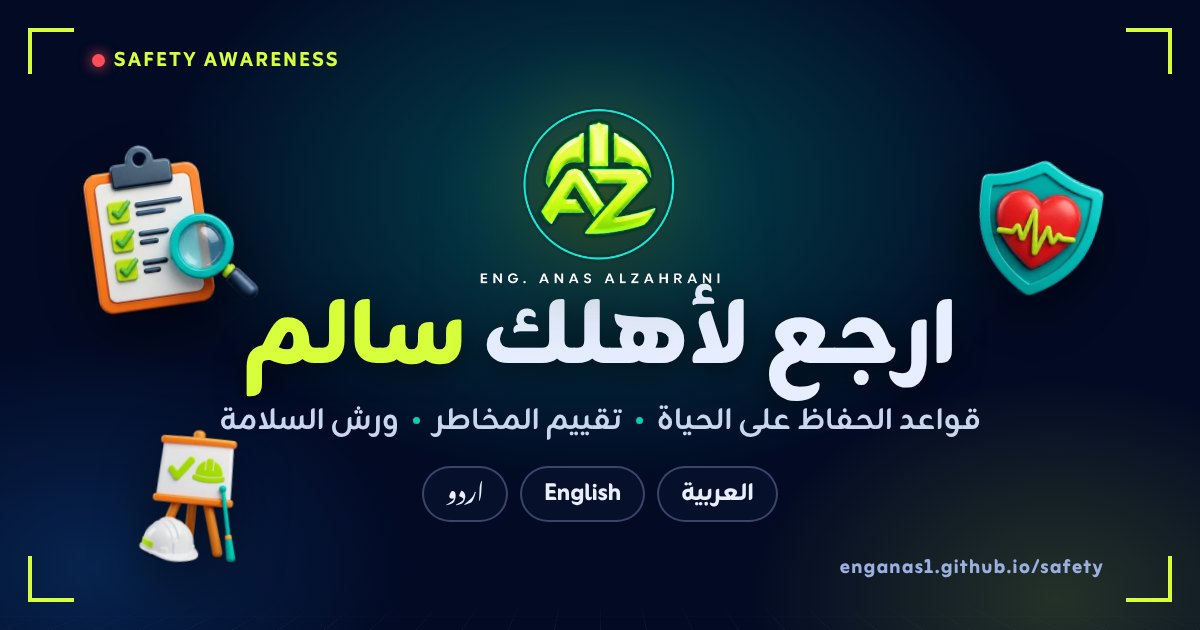
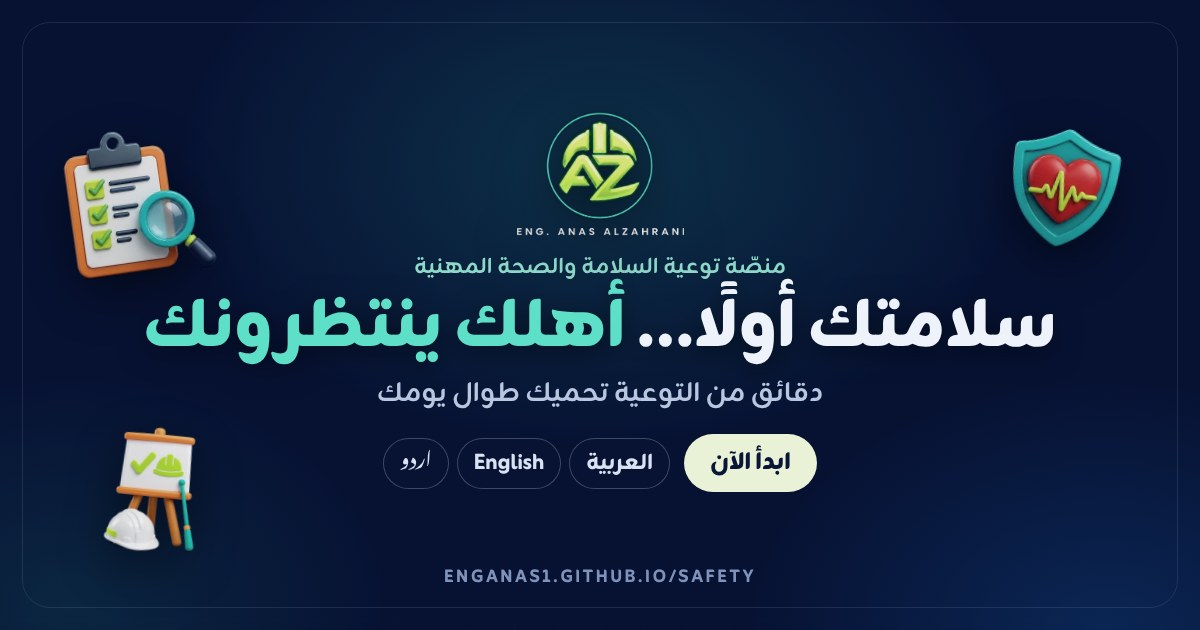
Calmer share image with a clearer message; matching preview text
Claude-Session: https://claude.ai/code/session_01TTqsTftecxzpd5ugEjpG63

diff --git a/index.html b/index.html
@@ -10,23 +10,23 @@
 <meta http-equiv="Pragma" content="no-cache">
 <meta http-equiv="Expires" content="0">
 <title>توعية السلامة | Safety Awareness</title>
-<meta name="description" content="قواعد الحفاظ على الحياة، وتقييم المخاطر، وورش السلامة… بالعربية والإنجليزية والأردية. إعداد م. أنس الزهراني.">
+<meta name="description" content="دقائق من التوعية تحميك طوال يومك: قواعد الحفاظ على الحياة، وتقييم المخاطر، وورش تفاعلية… بالعربية والإنجليزية والأردية. إعداد م. أنس الزهراني.">
 <!-- Link preview (WhatsApp, Telegram, X, iMessage…) -->
 <meta property="og:type" content="website">
 <meta property="og:site_name" content="Safety Awareness · Eng. Anas Alzahrani">
 <meta property="og:locale" content="ar_SA">
-<meta property="og:title" content="توعية السلامة | ارجع لأهلك سالم">
-<meta property="og:description" content="قواعد الحفاظ على الحياة، وتقييم المخاطر، وورش السلامة… بالعربية والإنجليزية والأردية. إعداد م. أنس الزهراني.">
+<meta property="og:title" content="سلامتك أولًا… أهلك ينتظرونك | توعية السلامة">
+<meta property="og:description" content="دقائق من التوعية تحميك طوال يومك: قواعد الحفاظ على الحياة، وتقييم المخاطر، وورش تفاعلية… بالعربية والإنجليزية والأردية. إعداد م. أنس الزهراني.">
 <meta property="og:url" content="https://enganas1.github.io/safety/">
 <meta property="og:image" content="https://enganas1.github.io/safety/img/share.jpg">
 <meta property="og:image:secure_url" content="https://enganas1.github.io/safety/img/share.jpg">
 <meta property="og:image:type" content="image/jpeg">
 <meta property="og:image:width" content="1200">
 <meta property="og:image:height" content="630">
-<meta property="og:image:alt" content="ارجع لأهلك سالم — توعية السلامة، م. أنس الزهراني">
+<meta property="og:image:alt" content="سلامتك أولًا… أهلك ينتظرونك — منصة توعية السلامة والصحة المهنية، م. أنس الزهراني">
 <meta name="twitter:card" content="summary_large_image">
-<meta name="twitter:title" content="توعية السلامة | ارجع لأهلك سالم">
-<meta name="twitter:description" content="قواعد الحفاظ على الحياة، وتقييم المخاطر، وورش السلامة… بالعربية والإنجليزية والأردية. إعداد م. أنس الزهراني.">
+<meta name="twitter:title" content="سلامتك أولًا… أهلك ينتظرونك | توعية السلامة">
+<meta name="twitter:description" content="دقائق من التوعية تحميك طوال يومك: قواعد الحفاظ على الحياة، وتقييم المخاطر، وورش تفاعلية… بالعربية والإنجليزية والأردية. إعداد م. أنس الزهراني.">
 <meta name="twitter:image" content="https://enganas1.github.io/safety/img/share.jpg">
 <link rel="icon" type="image/png" sizes="32x32" href="img/favicon-32.png">
 <link rel="icon" type="image/png" sizes="192x192" href="img/icon-192.png">

diff --git a/lab/fire.html b/lab/fire.html
@@ -20,7 +20,7 @@
 <meta property="og:image:type" content="image/jpeg">
 <meta property="og:image:width" content="1200">
 <meta property="og:image:height" content="630">
-<meta property="og:image:alt" content="ارجع لأهلك سالم — توعية السلامة، م. أنس الزهراني">
+<meta property="og:image:alt" content="سلامتك أولًا… أهلك ينتظرونك — منصة توعية السلامة والصحة المهنية، م. أنس الزهراني">
 <meta name="twitter:card" content="summary_large_image">
 <meta name="twitter:title" content="مختبر مكافحة الحريق | توعية السلامة">
 <meta name="twitter:description" content="محاكاة ثلاثية الأبعاد: رباعي الحريق، والطفايات، وطريقة PASS، والرشاشات… إعداد م. أنس الزهراني.">
